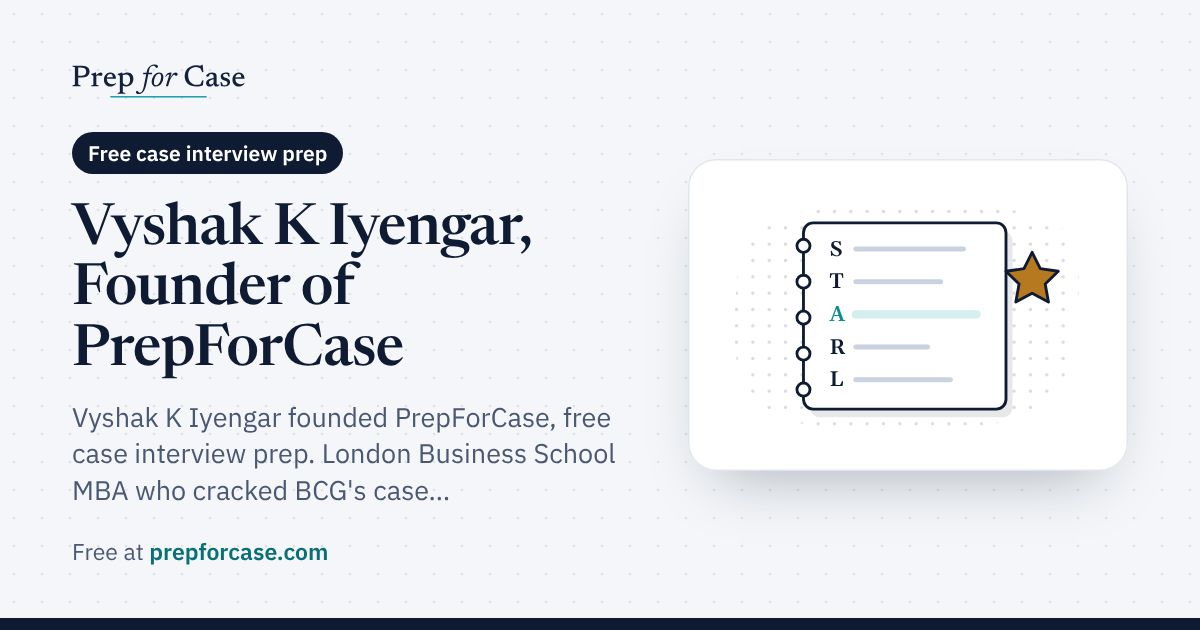
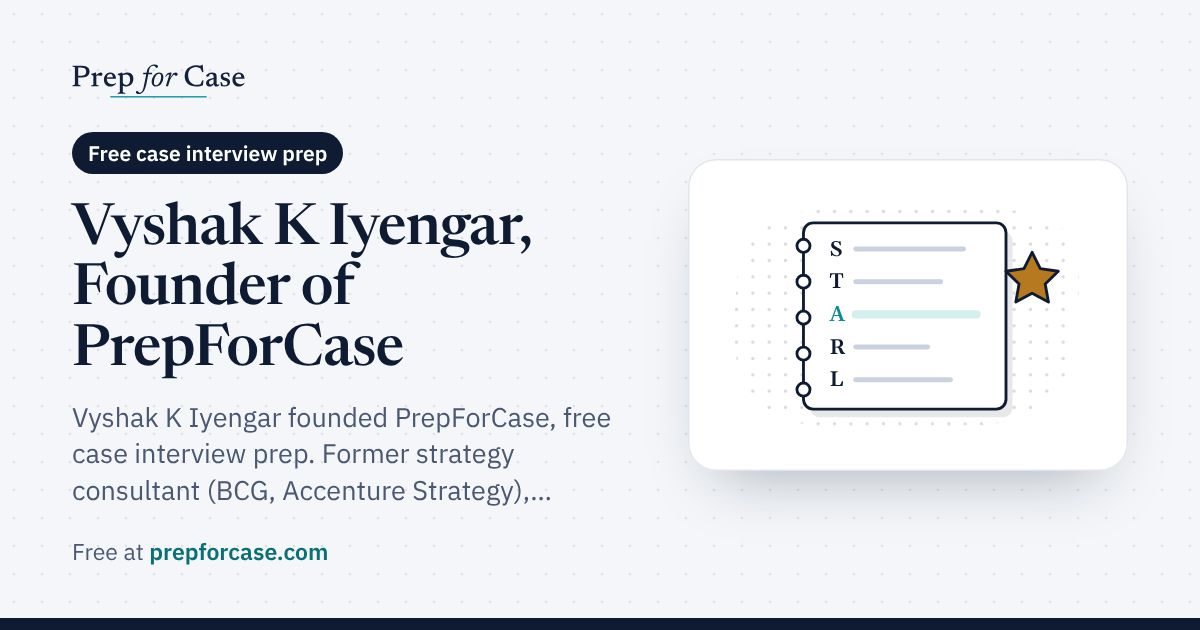
Author credentials: former strategy consultant (BCG, Accenture Strategy)
Claude-Session: https://claude.ai/code/session_01TiSAtNj9n6vV2bRUoqD4VA

Changed region(s): [[0.0617, 0.6937, 0.5242, 0.8143]]

diff --git a/src/lib/seo.ts b/src/lib/seo.ts
@@ -25,7 +25,7 @@ export const PAGES: Record<string, Meta> = {
   '/interview-skills': { title: 'Interview skills: thinking and speaking · PrepForCase', description: 'Practical exercises for thinking clearly, speaking calmly and sounding commercial in a case interview.', image: IMG('interview-skills') },
   '/graphs': { title: 'Graph library: 64 case interview charts · PrepForCase', description: 'The chart types you meet in case exhibits, each with practice data and the insight to look for.', image: IMG('graphs') },
   '/interviewer': { title: 'Interviewer mode: give a case to a friend · PrepForCase', description: 'Run a case for a friend with the script, the facts to give when asked, and what a strong answer looks like.', image: IMG('interviewer') },
-  '/author/vyshak-iyengar': { title: 'Vyshak K Iyengar, Founder of PrepForCase', description: 'Vyshak K Iyengar founded PrepForCase, free case interview prep. London Business School MBA who cracked BCG\'s case interviews, formerly Accenture Strategy and Meta.', image: IMG('author-vyshak-iyengar') },
+  '/author/vyshak-iyengar': { title: 'Vyshak K Iyengar, Founder of PrepForCase', description: 'Vyshak K Iyengar founded PrepForCase, free case interview prep. Former strategy consultant (BCG, Accenture Strategy), London Business School MBA, formerly Meta.', image: IMG('author-vyshak-iyengar') },
   '/about': { title: 'About PrepForCase · Vyshak K Iyengar', description: 'Why PrepForCase exists, who made it, and how the content is checked.', image: IMG('home') },
 }
 

diff --git a/src/content/author.ts b/src/content/author.ts
@@ -2,11 +2,11 @@
 export const AUTHOR = {
   name: 'Vyshak K Iyengar',
   role: 'Founder, PrepForCase',
-  creds: "London Business School MBA · Cracked BCG's case interviews · Former Accenture Strategy and Meta",
+  creds: 'London Business School MBA · Former strategy consultant (BCG, Accenture Strategy) · Former Meta',
   path: '/author/vyshak-iyengar',
   photo: '/vyshak.jpg',
   site: 'https://vyshak.me',
   linkedin: 'https://www.linkedin.com/in/vyshakiyengar/',
   x: 'https://x.com/vyshakkiyengar',
-  bio: "Vyshak is an alum of London Business School and Accenture Strategy, cracked BCG's case interviews, and led product strategy for a multi-billion-dollar ads product at Meta. He started PrepForCase to make good case interview preparation free for everyone, built on what helped him and the people who coached him.",
+  bio: "Vyshak is a former strategy consultant (BCG, Accenture Strategy) and a London Business School MBA, and led product strategy for a multi-billion-dollar ads product at Meta. He started PrepForCase to make good case interview preparation free for everyone, built on what helped him and the people who coached him.",
 }

diff --git a/src/pages/About.tsx b/src/pages/About.tsx
@@ -33,7 +33,7 @@ export default function About() {
       <h1 className="mt-2 text-[30px] leading-[1.1] sm:text-[38px]">Built from what helped me, so it can help you</h1>
       <div className="mt-7 space-y-5 font-serif text-[17px] leading-[1.65] text-ink">
         <p>
-          Hi, I'm Vyshak. I'm an alum of London Business School and Accenture Strategy, I cracked BCG's case interviews, and I recently led product strategy for a multi-billion-dollar ads product at Meta.
+          Hi, I'm Vyshak. I'm a former strategy consultant (BCG, Accenture Strategy) and a London Business School MBA, and I recently led product strategy for a multi-billion-dollar ads product at Meta.
          
         </p>
         <p>
